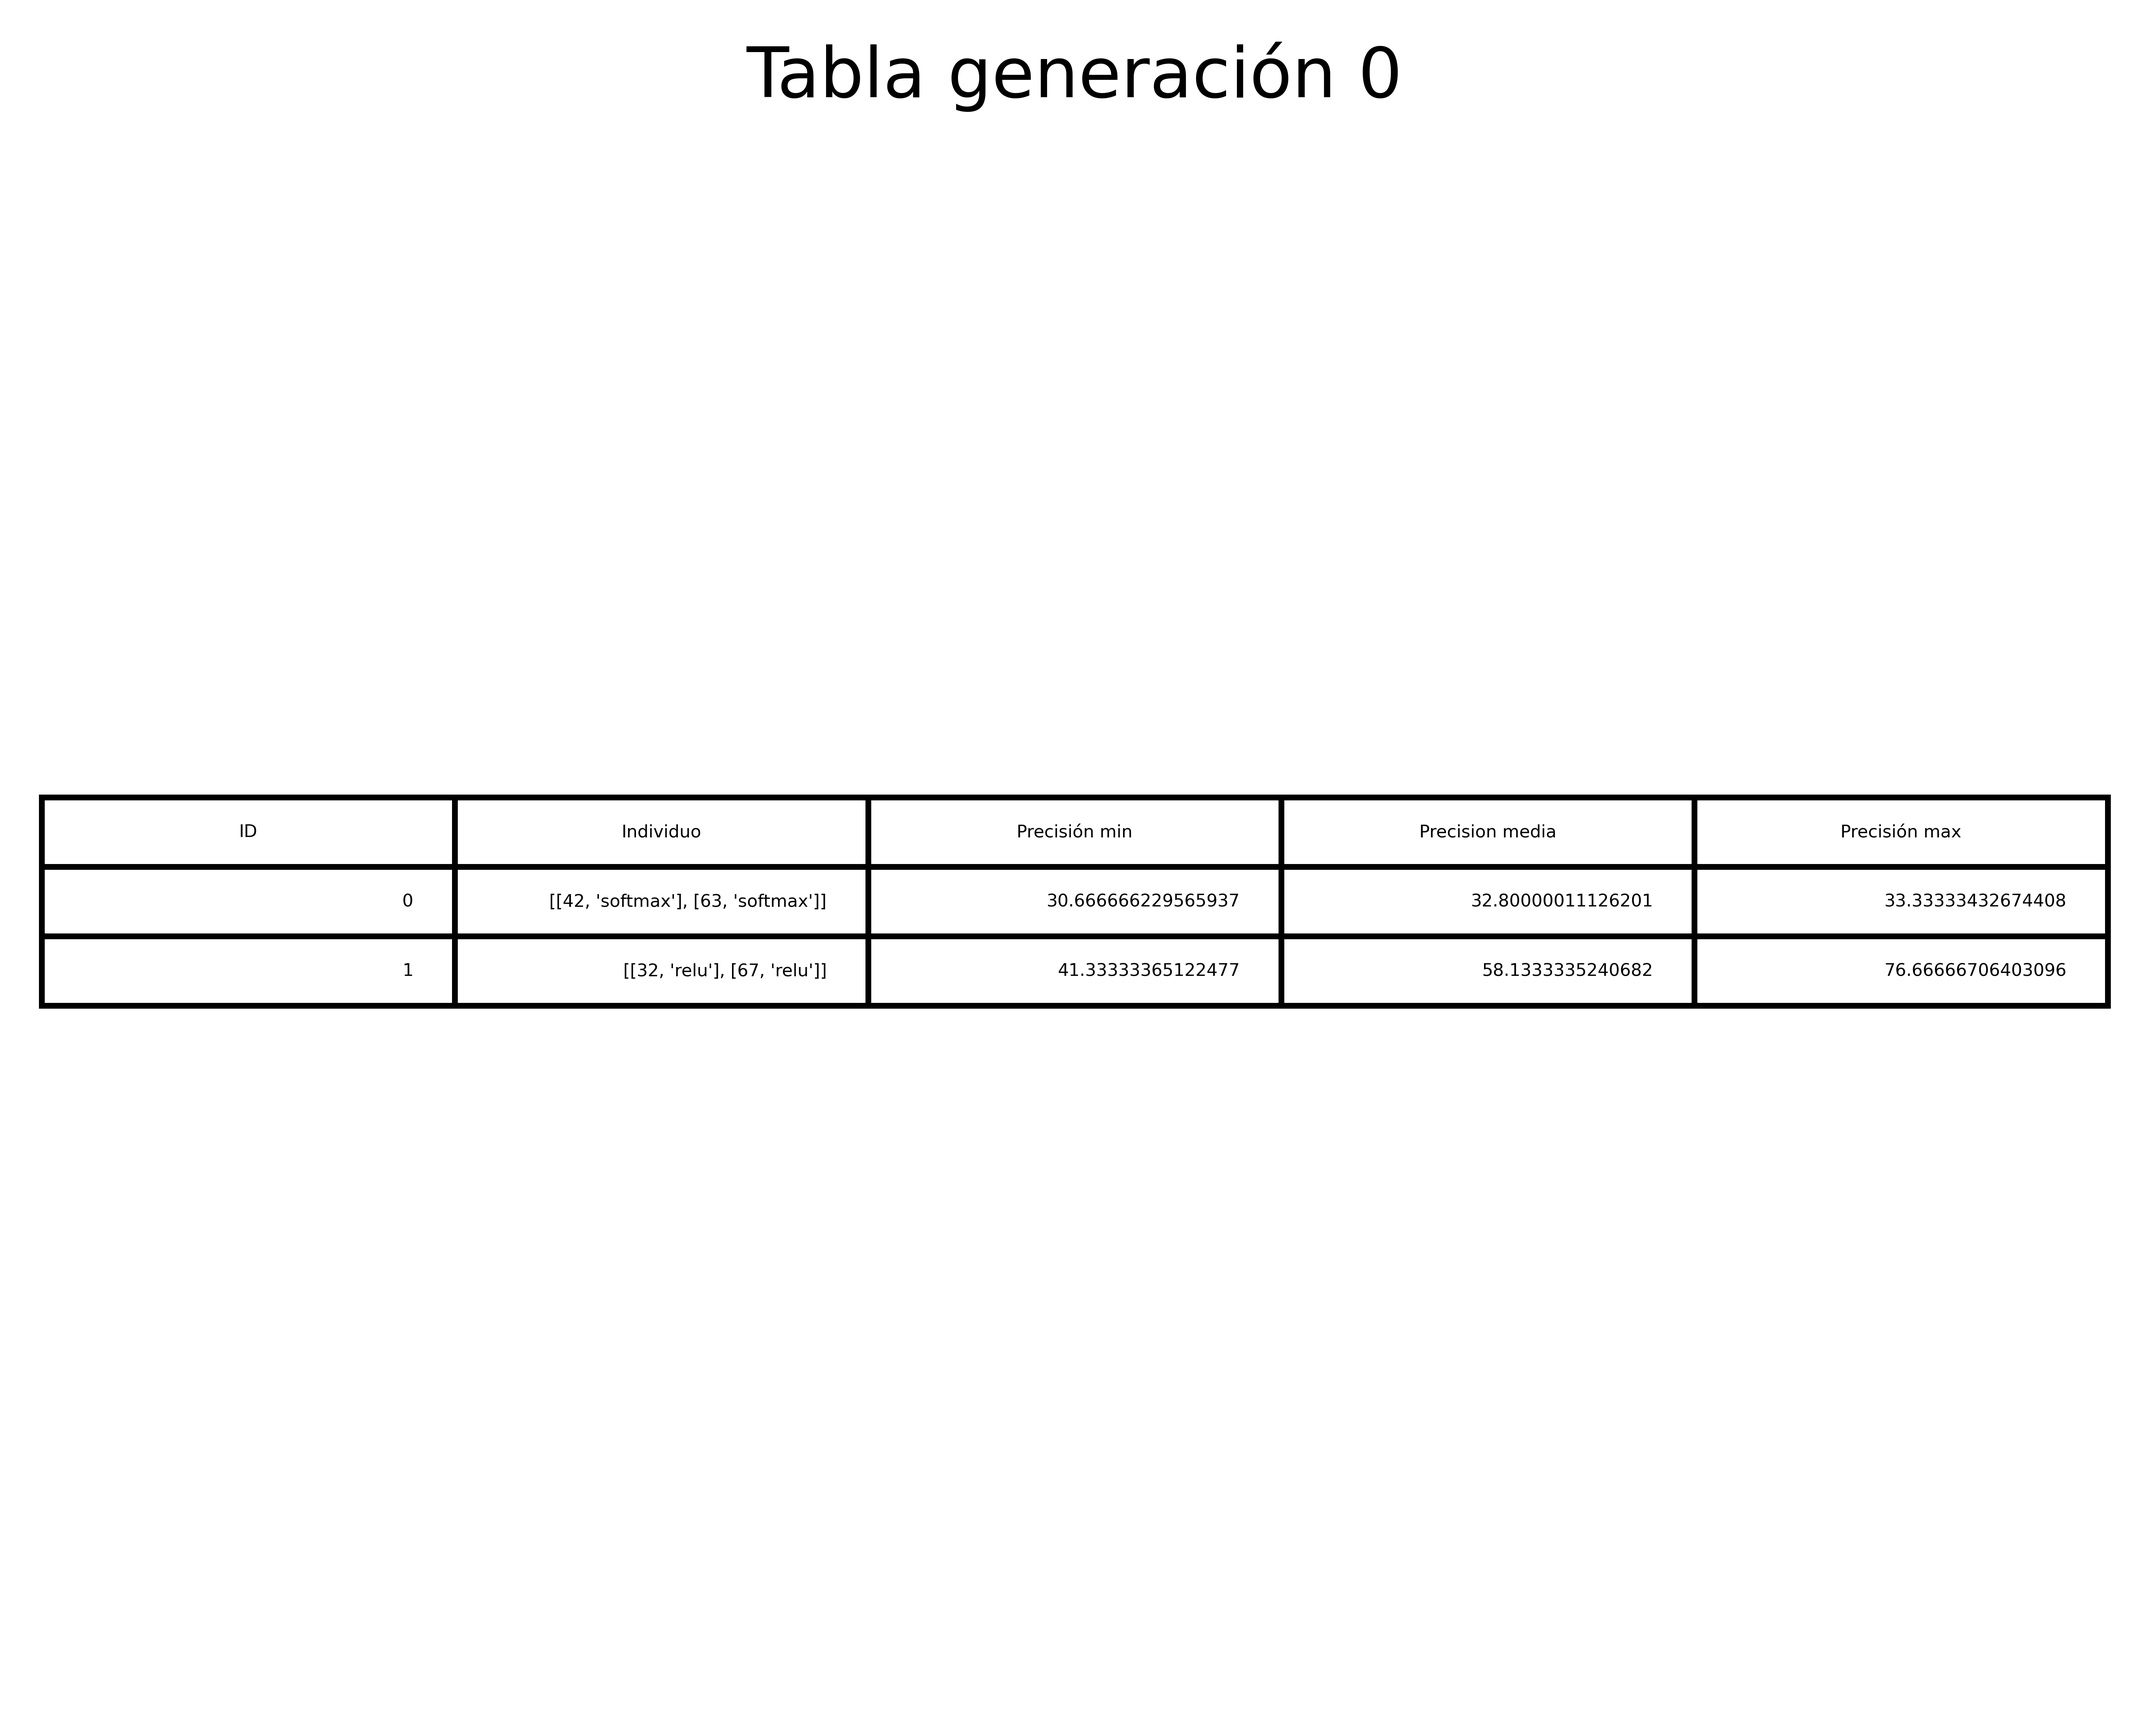
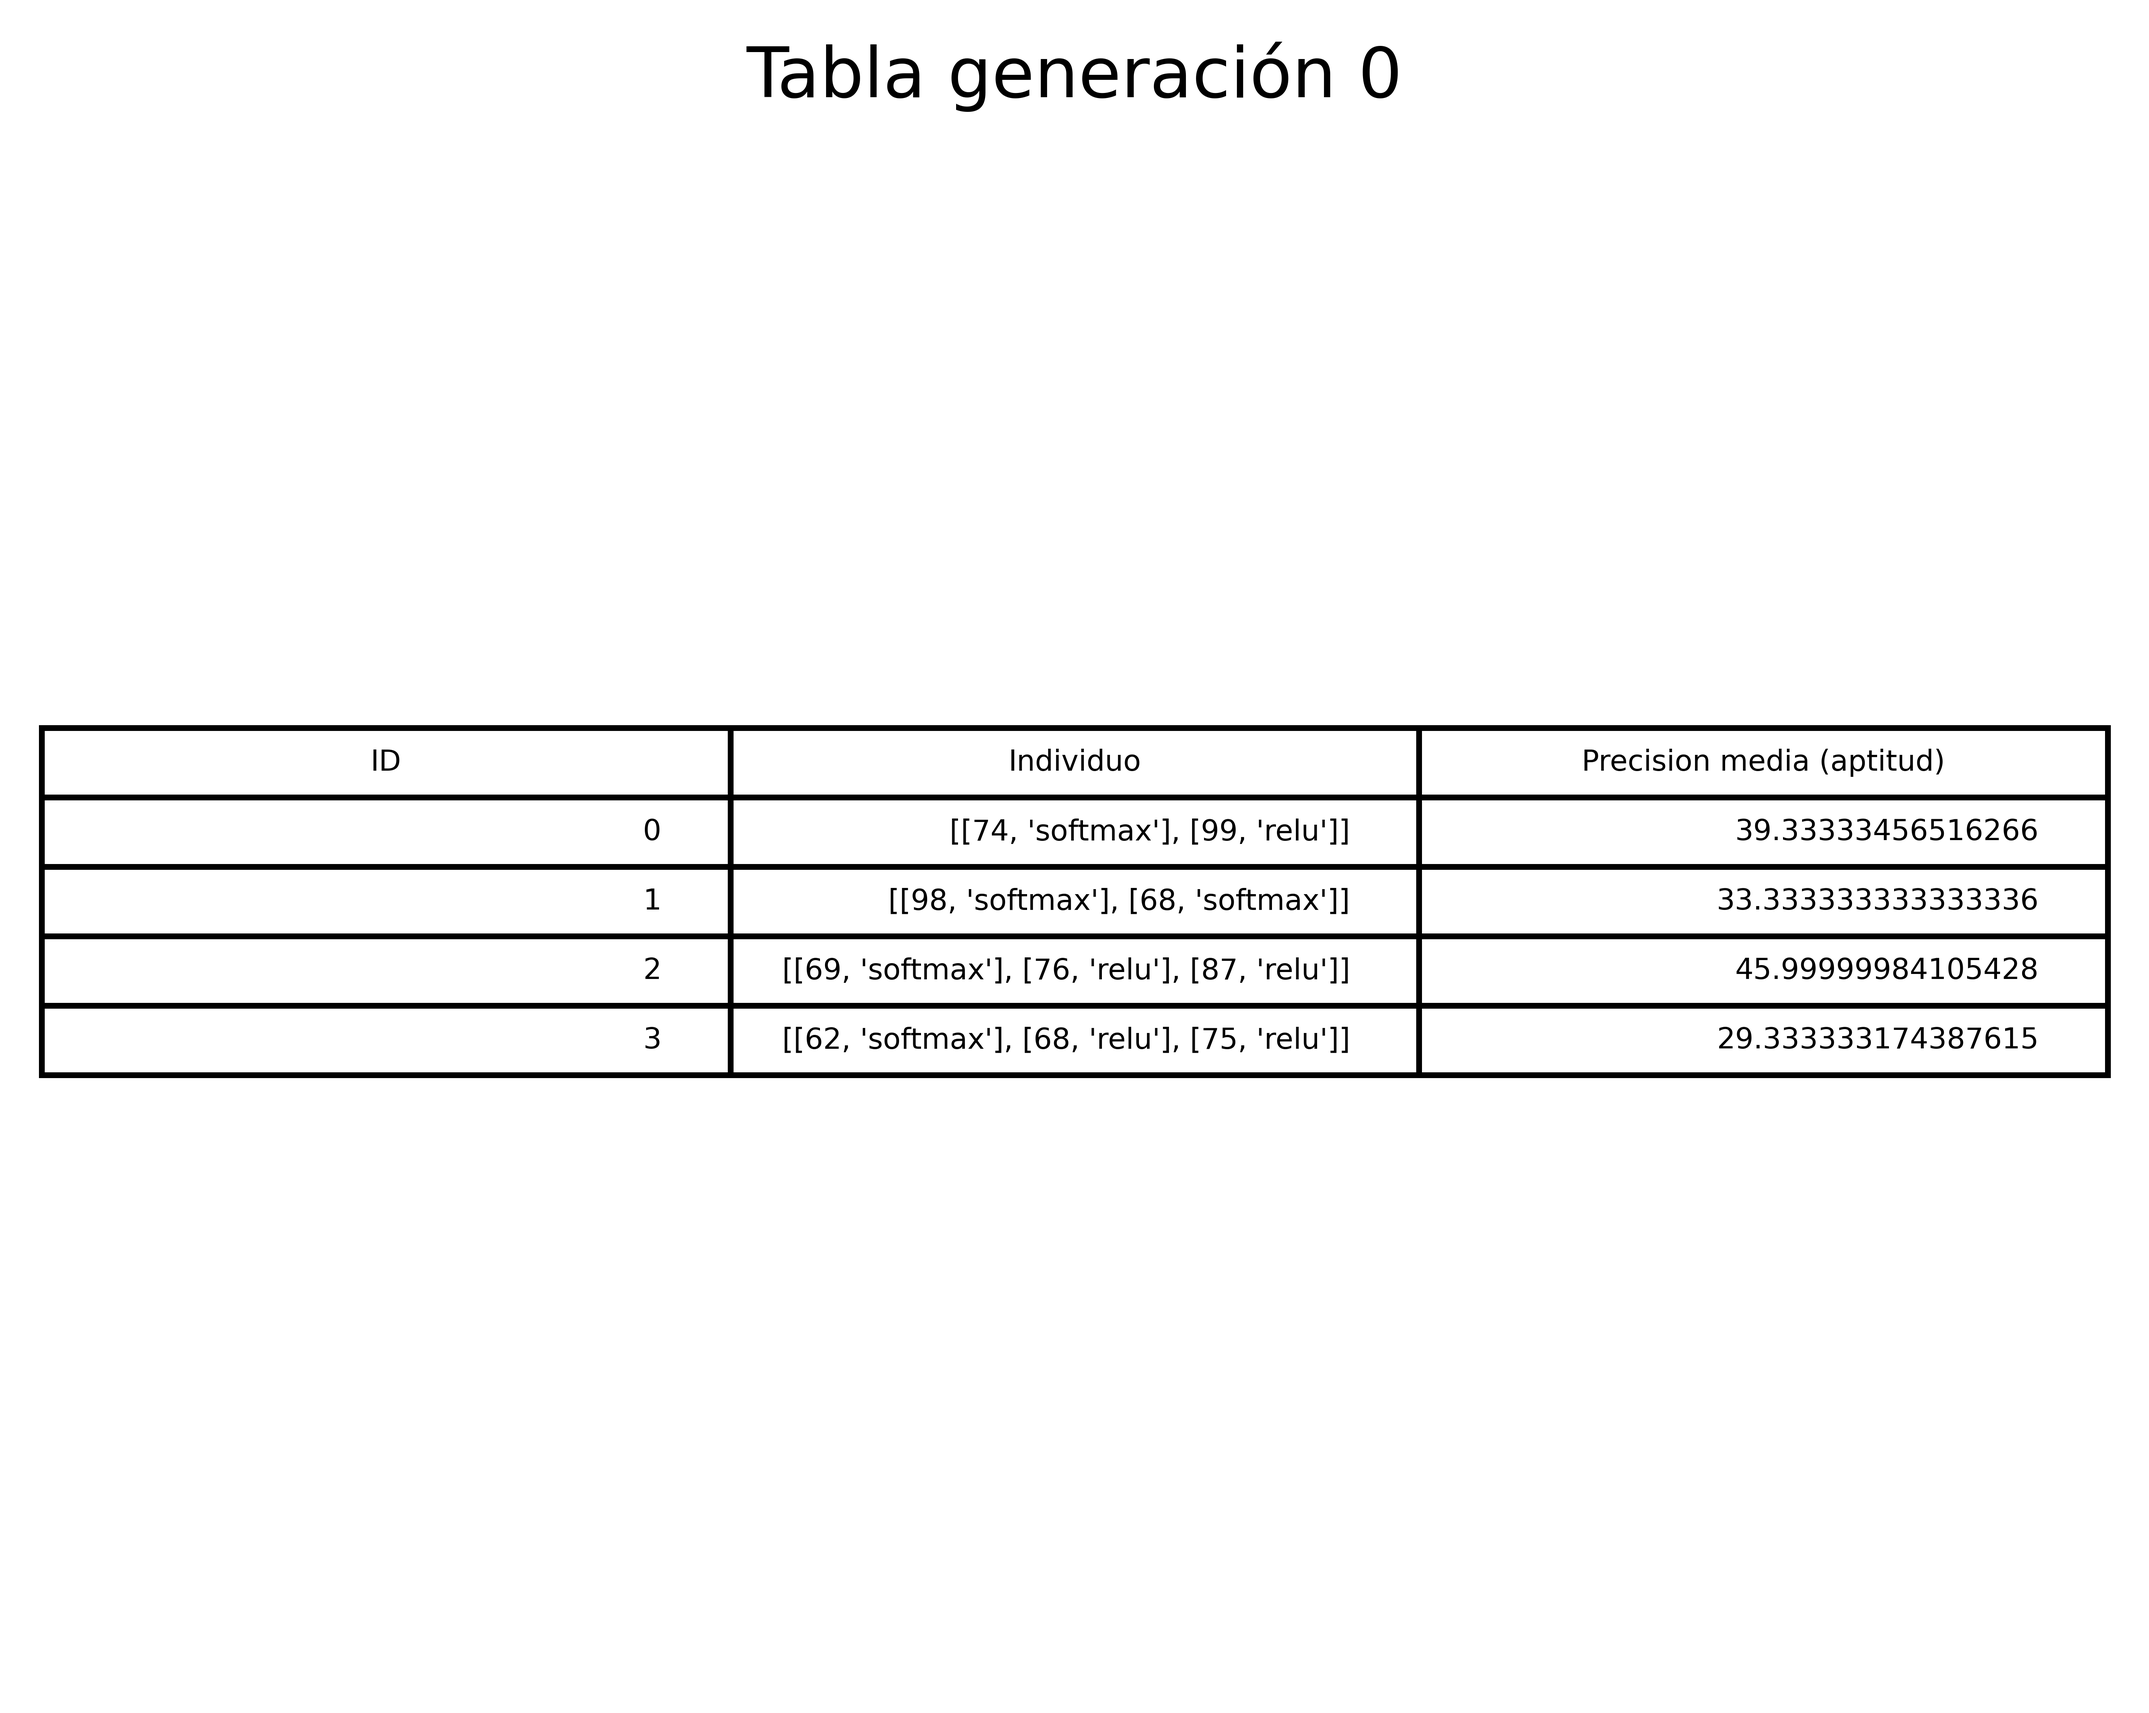
Graficas

diff --git a/genetic_algorithm/main.py b/genetic_algorithm/main.py
@@ -1,6 +1,5 @@
 from random import randint, uniform, random, sample
 from itertools import combinations, product
-import multiprocessing as mp
 import numpy as np
 from tkinter import Tk,Frame,Label, Button, Entry
 import matplotlib.pyplot as plt
@@ -32,7 +31,6 @@ class genetic_algorithm:
         self.worst_fitness = []
     
     def calculate_aptitude(self, individual):
-        print('Calculando aptitud de ', individual)
         num_layers_dense = len(individual)
         num_neurons = [x[0] for x in individual]
         activation = [x[1] for x in individual]
@@ -46,24 +44,12 @@ class genetic_algorithm:
             )
 
         for i in range(self.num_trains):
-            print('Train ',i)
             self.nn.train_model()
-            # print(self.nn.accuracy_list) #precision en cada fold
             accurancy_trains.append(np.mean(self.nn.accuracy_list)) #precision de cada entrenamiento
 
         self.accurancies_list.append(accurancy_trains)
 
         return np.mean(accurancy_trains)#precision media del modelo
-
-    # def evaluar_poblacion(self):
-    #     num_cpus = mp.cpu_count()
-    #     print("num cpu: ",num_cpus)
-    #     pool = mp.Pool(processes=num_cpus)
-    #     aptitudes = pool.map(self.calculate_aptitude, self.population)
-    #     pool.close()
-    #     pool.join()
-    #     print(aptitudes)
-    #     return aptitudes
 
     def code_individual(self):
         individual = []
@@ -77,7 +63,6 @@ class genetic_algorithm:
             if individual not in self.population:
                 self.population.append(individual)
         self.fitness = [self.calculate_aptitude(x) for x in self.population]
-        # self.fitness = self.evaluar_poblacion()
     
     def select_parents(self):
         pop_sorted = sorted(list(map(lambda x,y:[x,y], self.fitness,self.population)), reverse=True)
@@ -174,10 +159,6 @@ class genetic_algorithm:
         self.population = [x[1] for x in pop_sorted[:self.pop_size]]
         self.accurancies_list = [x[2] for x in pop_sorted[:self.pop_size]]
 
-        print("Poblacion final")
-        for i in pop_sorted:
-            print(i[0],i[1])
-
     def evaluate(self):
         self.generate_population()
         self.generations.append([self.population.copy(),self.accurancies_list.copy()]) #generacion 0
@@ -188,24 +169,21 @@ class genetic_algorithm:
             self.generations.append([self.population.copy(),self.accurancies_list.copy()])
             print("Generation", generation+1, "- Best fitness:", self.fitness[0])
         print("mejor individuo", self.population[0])
-        mvp['text'] = "Mejor modelo: " + "".join(self.population[0])
+        mvp['text'] = "Mejor modelo: " + str(self.population[0])
         accurancy['text'] = "Presición: " + str(self.fitness[0])
         self.show_result()
 
     def generate_tables(self):
         for i in range(len(self.generations)):
             fig, ax = plt.subplots()
-            columns_lbl = ('ID', 'Individuo', 'Precisión min',
-                            'Precision media',
-                            'Precisión max',)
+            columns_lbl = ('ID', 'Individuo',
+                            'Precision media (aptitud)',)
             row = []
-            print(f'\nGeneracion {i}')
-            print(self.generations[i])
             individual,accurancy_trains  =  self.generations[i]
             for j in range(len(individual)):
-                print(f'Individuo {j}: {individual[j]}')
-                print(f'p_min: {min(accurancy_trains[j])} - p_mean: {np.mean(accurancy_trains[j])} - p_max: {max(accurancy_trains[j])} \n')
-                row.append([j,individual[j],min(accurancy_trains[j]),np.mean(accurancy_trains[j]),max(accurancy_trains[j])])
+                # print(f'Individuo {j}: {individual[j]}')
+                # print(f'p_mean: {np.mean(accurancy_trains[j])}\n')
+                row.append([j,individual[j],np.mean(accurancy_trains[j])])
             ax.set_title("Tabla generación " + str(i))
             ax.axis('off')
             ax.table(
@@ -239,29 +217,29 @@ class genetic_algorithm:
         plt.savefig("./genetic_algorithm/graficas/Evolución de los individuos.png", dpi=1080,
                             transparent=False,bbox_inches='tight')
 
-        plt.show()
+        plt.show(block=False)
 
     def show_result(self):
         self.generate_tables()
         self.graph_best_individual()
 
 #Ejecutar AG
-nn = neuronal_network()
-nn.preprocess_images()
-ga = genetic_algorithm(
-    num_layers=(2,3), #2,3
-    num_neurons=(30,70), #30,70
-    pop_size=5, #5
-    num_generations=2, #10
-    mut_rate=0.5, #0.5
-    mut_rate_pos=0.6, #0.6
-    mut_rate_layer=0.7, #0.7
-    mut_rate_neurons=0.5, #0.5
-    mut_rate_f_activation=0.5, #0.5
-    num_trains=5, #5
-    nn=nn,
-)
-ga.evaluate()
+# nn = neuronal_network()
+# nn.preprocess_images()
+# ga = genetic_algorithm(
+#     num_layers=(2,3), #2,3
+#     num_neurons=(30,70), #30,70
+#     pop_size=5, #5
+#     num_generations=2, #10
+#     mut_rate=0.5, #0.5
+#     mut_rate_pos=0.6, #0.6
+#     mut_rate_layer=0.7, #0.7
+#     mut_rate_neurons=0.5, #0.5
+#     mut_rate_f_activation=0.5, #0.5
+#     num_trains=5, #5
+#     nn=nn,
+# )
+# ga.evaluate()
 
 def iniciar():
     aux = entry_num_layers.get().split(",",2)
@@ -280,20 +258,19 @@ def iniciar():
     nn = neuronal_network()
     nn.preprocess_images()
     ga = genetic_algorithm(
-        num_layers, #2,3
-        num_neurons, #30,70
-        pop_size, #5
-        num_generations, #10
-        mut_rate, #0.5
-        mut_rate_pos, #0.6
-        mut_rate_layer, #0.7
-        mut_rate_neurons, #0.5
-        mut_rate_f_activation, #0.5
-        num_trains, #5
-        nn,
+        num_layers=(2,3), 
+        num_neurons=(60,100), 
+        pop_size=7, 
+        num_generations=25, 
+        mut_rate=0.5, 
+        mut_rate_pos=0.5, 
+        mut_rate_layer=0.8, 
+        mut_rate_neurons=0.7, 
+        mut_rate_f_activation=0.5, 
+        num_trains=1, 
+        nn=nn,
     )
     ga.evaluate()
-
 
 '''Interface'''
 tk = Tk()
@@ -355,4 +332,4 @@ entry_num_trains.grid(column=1, row=9, sticky='W', padx=5, pady=5)
 
 Button(form_frame,font=font_lbl, text='Iniciar', width=15, bg='#D580FF',fg='white', command=iniciar).grid(column=0, row=10, sticky='EW', pady=5, padx=8, columnspan=2)
 
-# tk.mainloop()
+tk.mainloop()
